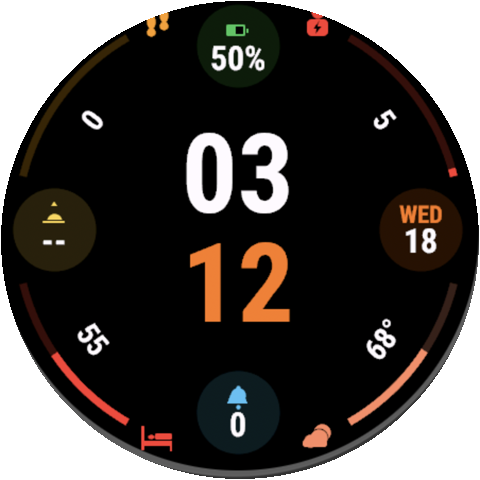
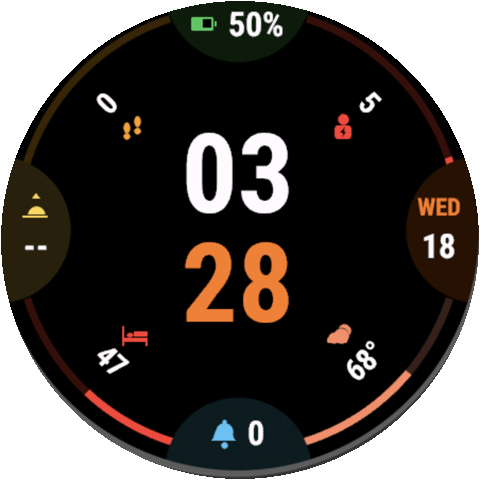
feat: Classic edge tabs joined by tab-to-tab arcs
- Classic pods become edge tabs: filled half-circles growing out of the
  bezel, tinted with the field colour; top/bottom tabs show icon and
  value side by side, side tabs stack them.
- Classic arcs run from tab edge to tab edge (55 deg) so arcs and tabs
  form one continuous border; arc icons sit inside their values.
- Overlap keeps its shorter arcs with icons at the ends (its poster
  digits fill the centre); arc layout is now chosen per style.
- Long-press targets the tab content.
- README: refreshed Classic screenshot and description.

diff --git a/README.md b/README.md
@@ -23,7 +23,7 @@ Screenshots from the Connect IQ simulator (Forerunner 970) with its sample data.
 
 | Style | Look | Slots used |
 |---|---|---|
-| Classic | Stacked Roboto Condensed Bold time, 4 arc gauges, 4 pods at the edge on soft tinted discs | all 8 |
+| Classic | Stacked Roboto Condensed Bold time; 4 edge tabs (filled half-circles) joined by 4 arc gauges into one border; arc icons sit inside their values | all 8 |
 | Overlap | Poster-size digits: dim hours behind, bright minutes in front | the 4 arcs |
 | Serif | Pridi serif numerals on a dial: hairline ring, minute ticks, hour marks | the 4 pods, as text |
 | HUD | Seven-segment time, labelled outlined cells (1 above, 3 below) | the 4 pods |
@@ -32,6 +32,7 @@ Screenshots from the Connect IQ simulator (Forerunner 970) with its sample data.
 
 Every style has its own always-on view; Minimal's keeps its data line.
 Arcs fill upward: top arcs toward 12, bottom arcs from 6 toward 9/3. Edges are anti-aliased.
+Classic's arcs run tab to tab; Overlap keeps shorter arcs with icons at their ends.
 
 ## Fields (any slot, 28 + None)
 | Group | Fields (icon) |
